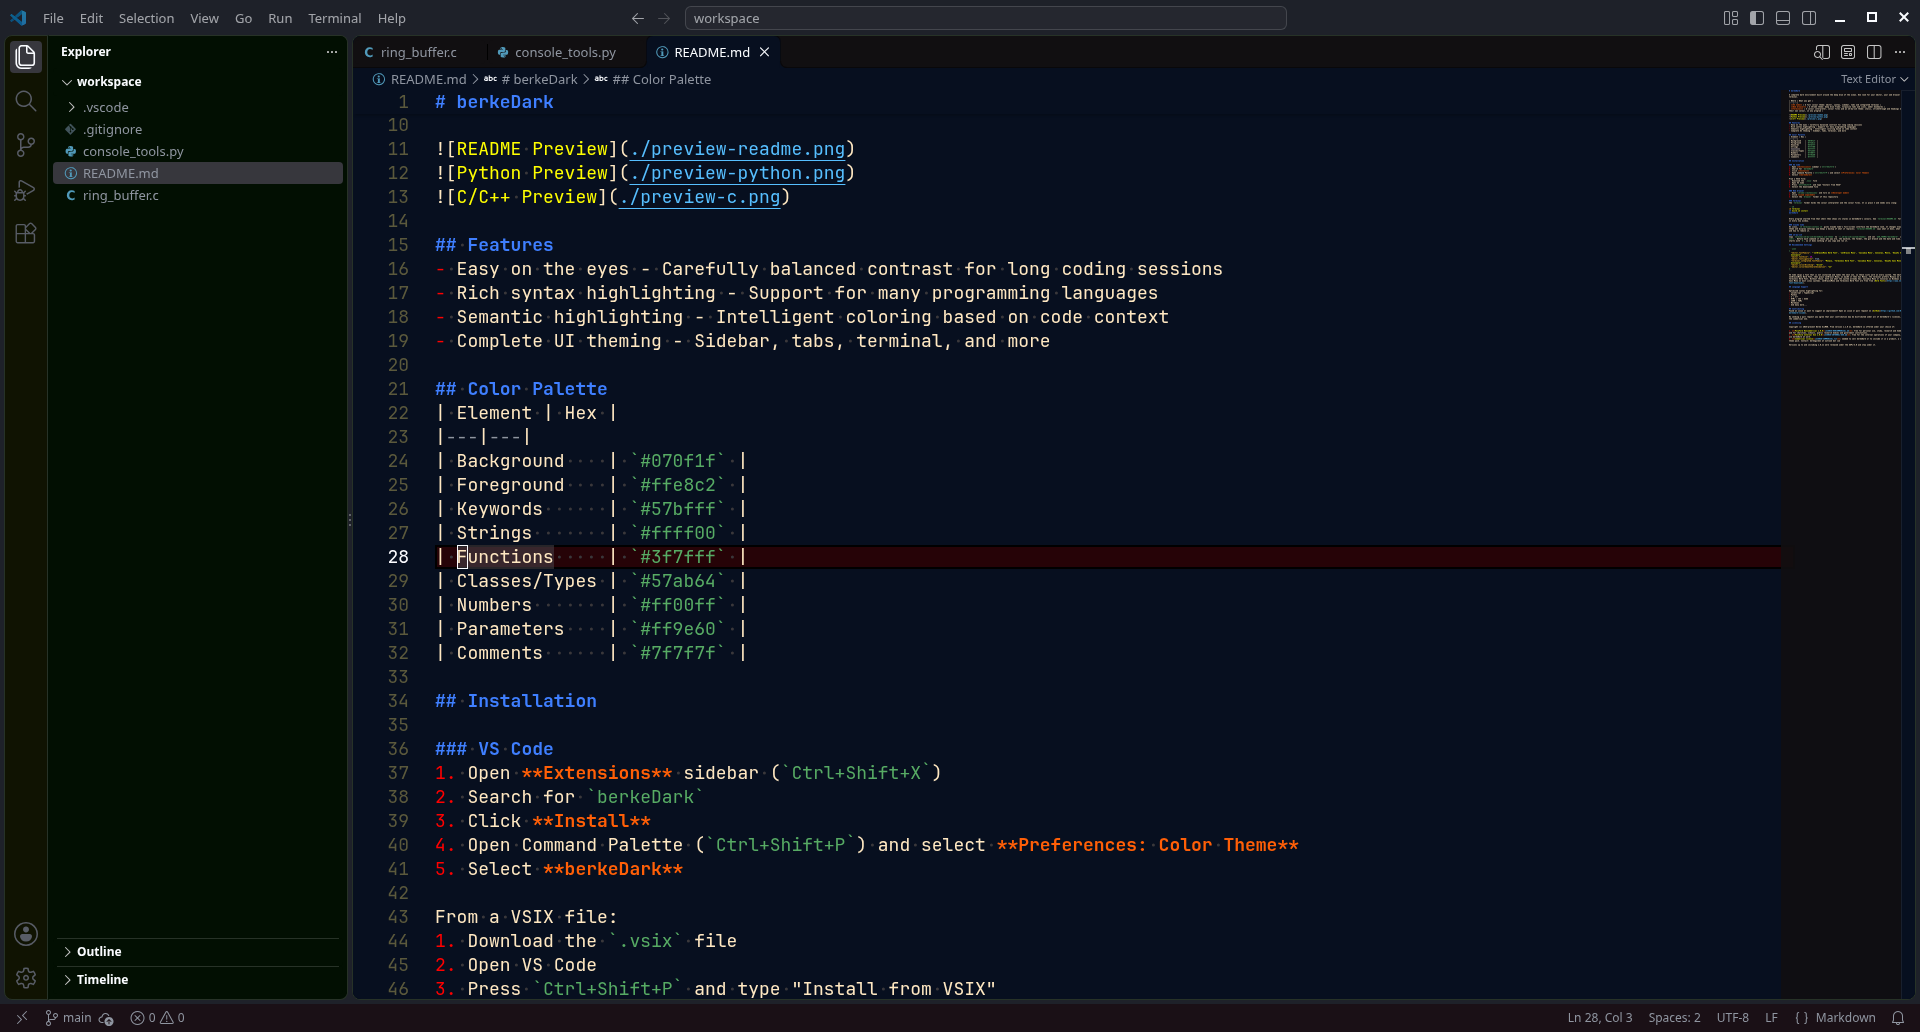
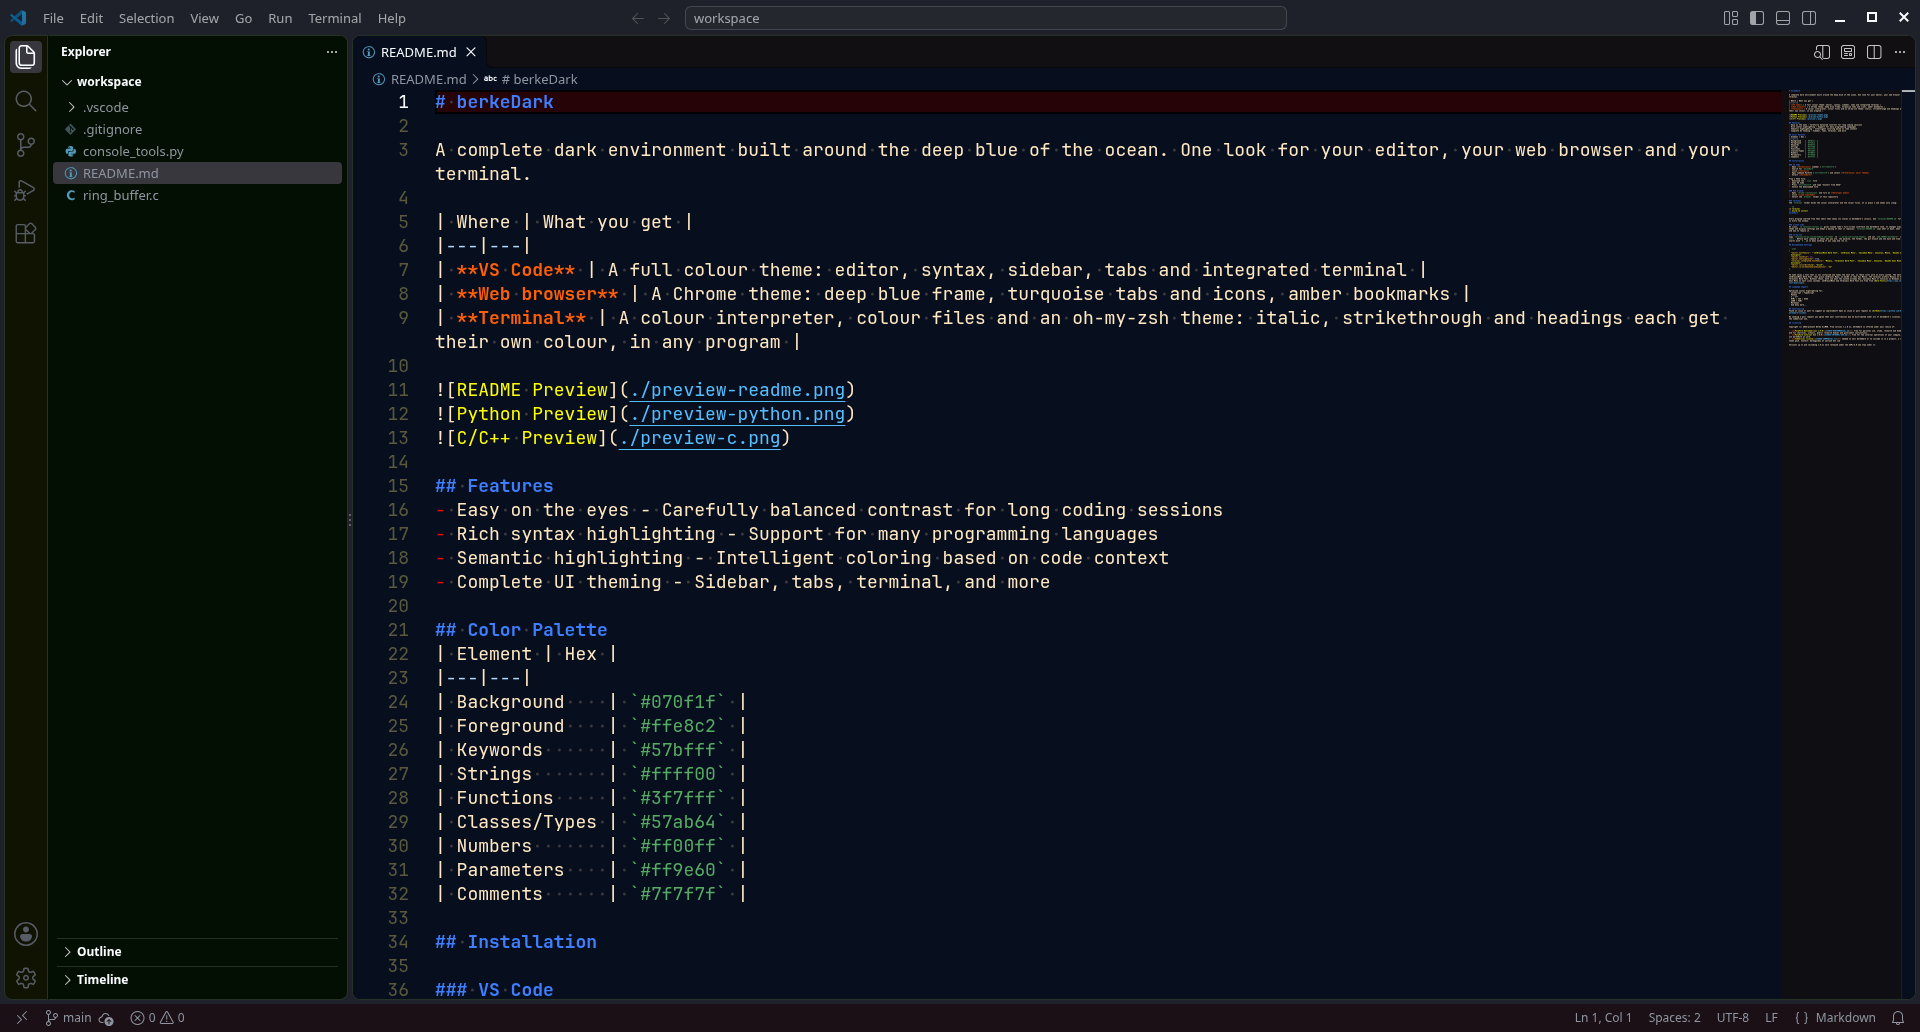
Release 1.3.0: one source for every colour, replies and code in Claude Code, themes for Qwen Code and Codex

diff --git a/README.md b/README.md
@@ -1,12 +1,13 @@
 # berkeDark
 
-A complete dark environment built around the deep blue of the ocean. One look for your editor, your web browser and your terminal.
+A complete dark environment built around the deep blue of the ocean. One look for your editor, your web browser, your terminal and the AI tools you run in it.
 
 | Where | What you get |
 |---|---|
 | **VS Code** | A full colour theme: editor, syntax, sidebar, tabs and integrated terminal |
 | **Web browser** | A Chrome theme: deep blue frame, turquoise tabs and icons, amber bookmarks |
 | **Terminal** | A colour interpreter, colour files and an oh-my-zsh theme: italic, strikethrough and headings each get their own colour, in any program |
+| **AI tools** | Claude Code, Qwen Code, Codex and Grok in the same colours: replies, code, diffs and command lines |
 
 ![README Preview](./preview-readme.png)
 ![Python Preview](./preview-python.png)
@@ -65,6 +66,9 @@ Every program started from that shell then shows its styles in berkeDark's colou
 ### Claude Code
 On Linux, `sh terminal/install.sh` gives Claude Code's full-screen interface the berkeDark look. It changes Claude Code's theme and display settings and keeps a backup of what it replaces; `terminal/README.md` says what it does, what was tested and how to remove it.
 
+### Qwen Code, Codex, Grok
+The `cli` folder holds berkeDark's theme for Qwen Code and for Codex, and the one setting that gives Grok the terminal's colours. `cli/README.md` says where each file goes and what each tool can show.
+
 ### oh-my-zsh
 Copy `terminal/oh-my-zsh/berkeDark.zsh-theme` to `~/.oh-my-zsh/custom/themes/` and set `ZSH_THEME="berkeDark"` in `~/.zshrc`. Before each command it shows who you are, the machine, the folder, the git branch and the date and time. The line starts with `#`, so it does nothing if you copy and run it.
 
@@ -94,8 +98,11 @@ Optimized syntax highlighting for:
 - Markdown
 - And many more...
 
+## One source
+Every colour here comes from one file, `pool/pool.json`: the colours by name and the things that use them. The theme, the browser theme, the terminal's files, the AI tools' themes and the colour codes in this text are written from it by `pool/tools/generate.py`, so a colour is decided once and looks the same everywhere. `pool/README.md` explains it.
+
 ## Contributing
-Found an issue or want to suggest an improvement? Open an issue or pull request on [GitHub](https://github.com/BerkeGulmen/berkedark-vscode).
+Found an issue or want to suggest an improvement? Open an issue or pull request on [GitHub](https://github.com/BerkeGulmen/berkeDark).
 
 By sending a pull request you agree that your contribution may be distributed under all of berkeDark's licenses, including the commercial one.
 

diff --git a/pool/targets/README.md b/pool/targets/README.md
@@ -1,12 +1,13 @@
 # berkeDark
 
-A complete dark environment built around the deep blue of the ocean. One look for your editor, your web browser and your terminal.
+A complete dark environment built around the deep blue of the ocean. One look for your editor, your web browser, your terminal and the AI tools you run in it.
 
 | Where | What you get |
 |---|---|
 | **VS Code** | A full colour theme: editor, syntax, sidebar, tabs and integrated terminal |
 | **Web browser** | A Chrome theme: deep blue frame, turquoise tabs and icons, amber bookmarks |
 | **Terminal** | A colour interpreter, colour files and an oh-my-zsh theme: italic, strikethrough and headings each get their own colour, in any program |
+| **AI tools** | Claude Code, Qwen Code, Codex and Grok in the same colours: replies, code, diffs and command lines |
 
 ![README Preview](./preview-readme.png)
 ![Python Preview](./preview-python.png)
@@ -65,6 +66,9 @@ Every program started from that shell then shows its styles in berkeDark's colou
 ### Claude Code
 On Linux, `sh terminal/install.sh` gives Claude Code's full-screen interface the berkeDark look. It changes Claude Code's theme and display settings and keeps a backup of what it replaces; `terminal/README.md` says what it does, what was tested and how to remove it.
 
+### Qwen Code, Codex, Grok
+The `cli` folder holds berkeDark's theme for Qwen Code and for Codex, and the one setting that gives Grok the terminal's colours. `cli/README.md` says where each file goes and what each tool can show.
+
 ### oh-my-zsh
 Copy `terminal/oh-my-zsh/berkeDark.zsh-theme` to `~/.oh-my-zsh/custom/themes/` and set `ZSH_THEME="berkeDark"` in `~/.zshrc`. Before each command it shows who you are, the machine, the folder, the git branch and the date and time. The line starts with `#`, so it does nothing if you copy and run it.
 
@@ -94,8 +98,11 @@ Optimized syntax highlighting for:
 - Markdown
 - And many more...
 
+## One source
+Every colour here comes from one file, `pool/pool.json`: the colours by name and the things that use them. The theme, the browser theme, the terminal's files, the AI tools' themes and the colour codes in this text are written from it by `pool/tools/generate.py`, so a colour is decided once and looks the same everywhere. `pool/README.md` explains it.
+
 ## Contributing
-Found an issue or want to suggest an improvement? Open an issue or pull request on [GitHub](https://github.com/BerkeGulmen/berkedark-vscode).
+Found an issue or want to suggest an improvement? Open an issue or pull request on [GitHub](https://github.com/BerkeGulmen/berkeDark).
 
 By sending a pull request you agree that your contribution may be distributed under all of berkeDark's licenses, including the commercial one.
 

diff --git a/CHANGELOG.md b/CHANGELOG.md
@@ -4,6 +4,26 @@ All notable changes to the "berkeDark" extension will be documented in this file
 
 ## [Unreleased]
 
+## [1.3.0] - 2026-11-10
+
+### Added
+- One source: every file that carries a colour (this theme, the browser theme, the terminal's files, the AI tools' themes, the colour codes in the README files) is written from `pool/pool.json` by `pool/tools/generate.py`
+- Claude Code, in the terminal: a reply's text gets berkeDark's colours for heading lines, labels, list marks, task marks, web addresses, tables, rules and quotes; for inline code, the paths of files and the words of fenced code; for command lines in shell mode and in tool rows; and for the dim words offered in the input box
+- Claude Code: a diff's added and removed rows stand on the theme's own grounds
+- Themes for Qwen Code and Codex in `cli`, and the setting that gives Grok the terminal's colours
+
+### Changed
+- Punctuation in code is ice blue (`#b2d9ff`), as on the terminal
+- The integrated terminal's sixteen colours are the same as the terminal palette's
+- The cursor is orange (`#ff9e60`), as in the terminal
+- Claude Code: dates and times are `#e87fe0`; the working mark, errors and a removed row's mark are rose `#ff5c7c`; the text typed into the input box is `#3fff7f`
+
+### Fixed
+- Terminal colour interpreter: the digit of an older number could be written back over the blank between two words
+- Terminal colour interpreter: the cells of emoji sequences are counted as the terminal counts them
+- Terminal colour interpreter: in a diff, an apostrophe inside a comment of several rows no longer starts a "string"
+- The README named a wrong colour for comments (`#7f7f7f`); it is `#707070`
+
 ## [1.2.1] - 2026-11-09
 
 ### Changed
